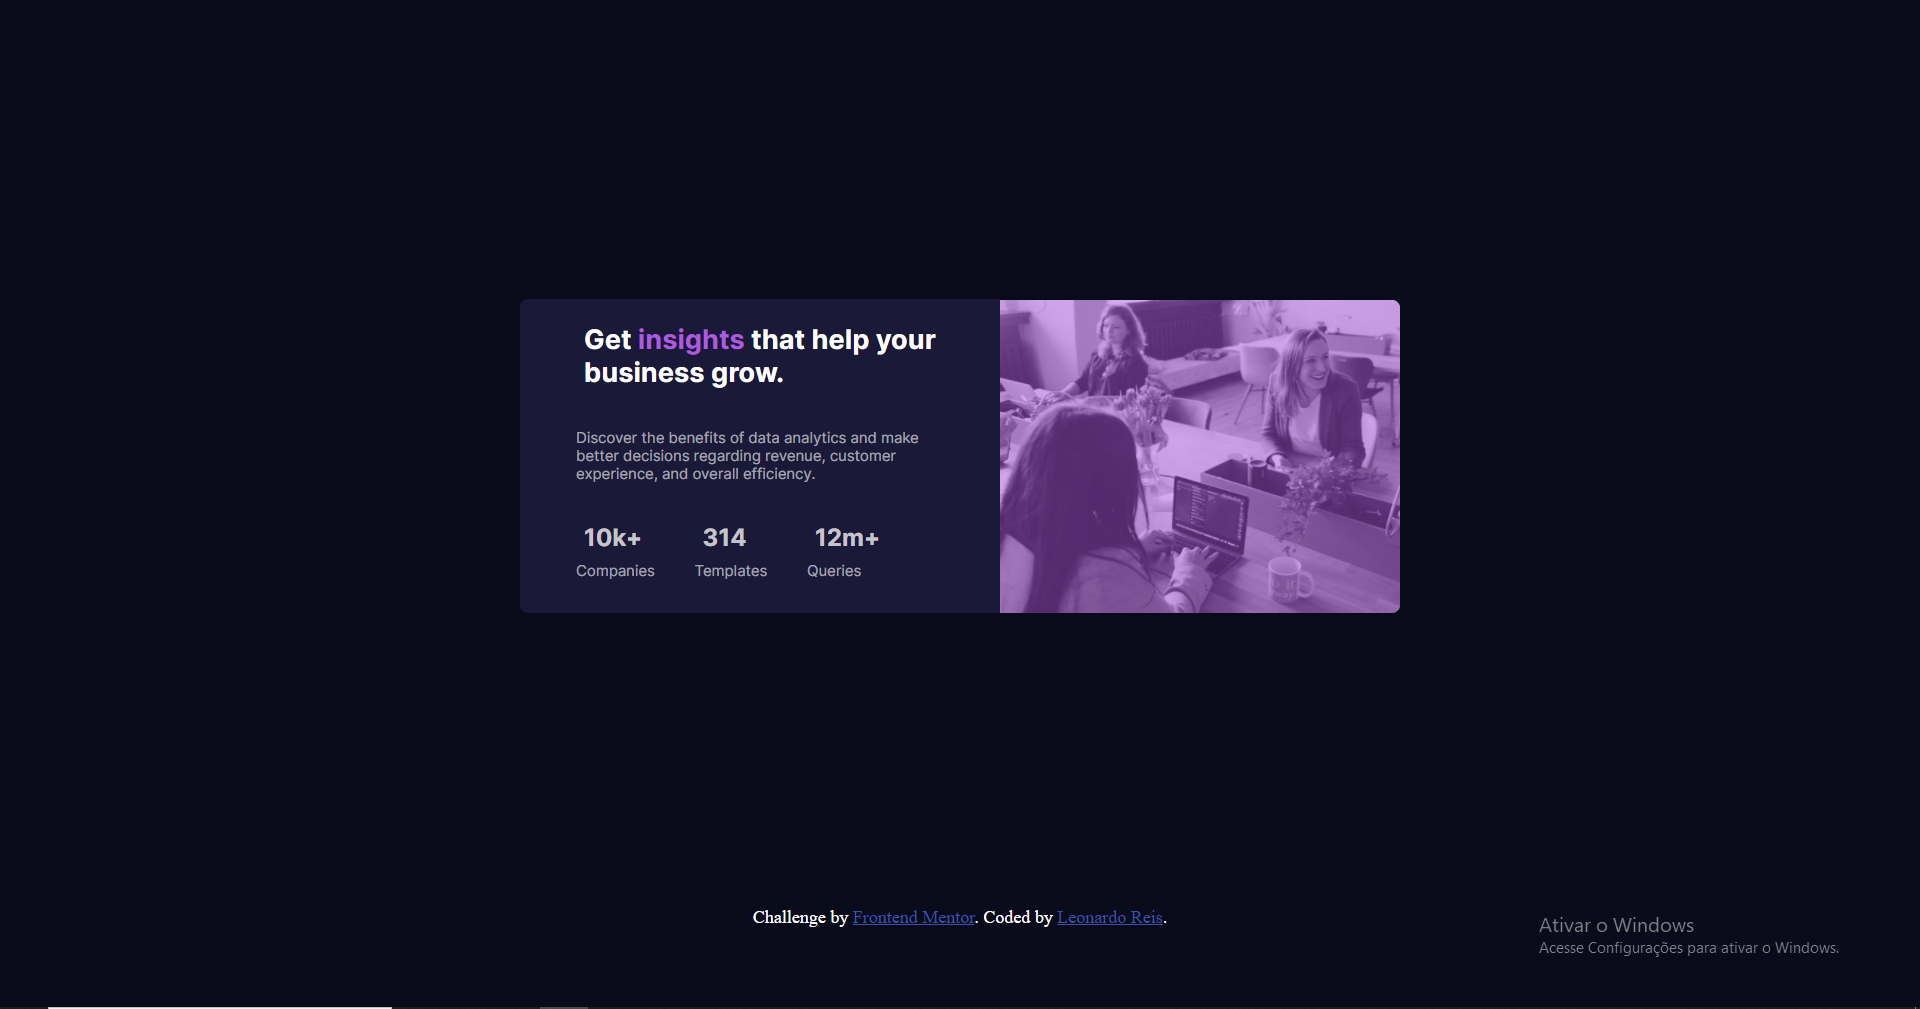
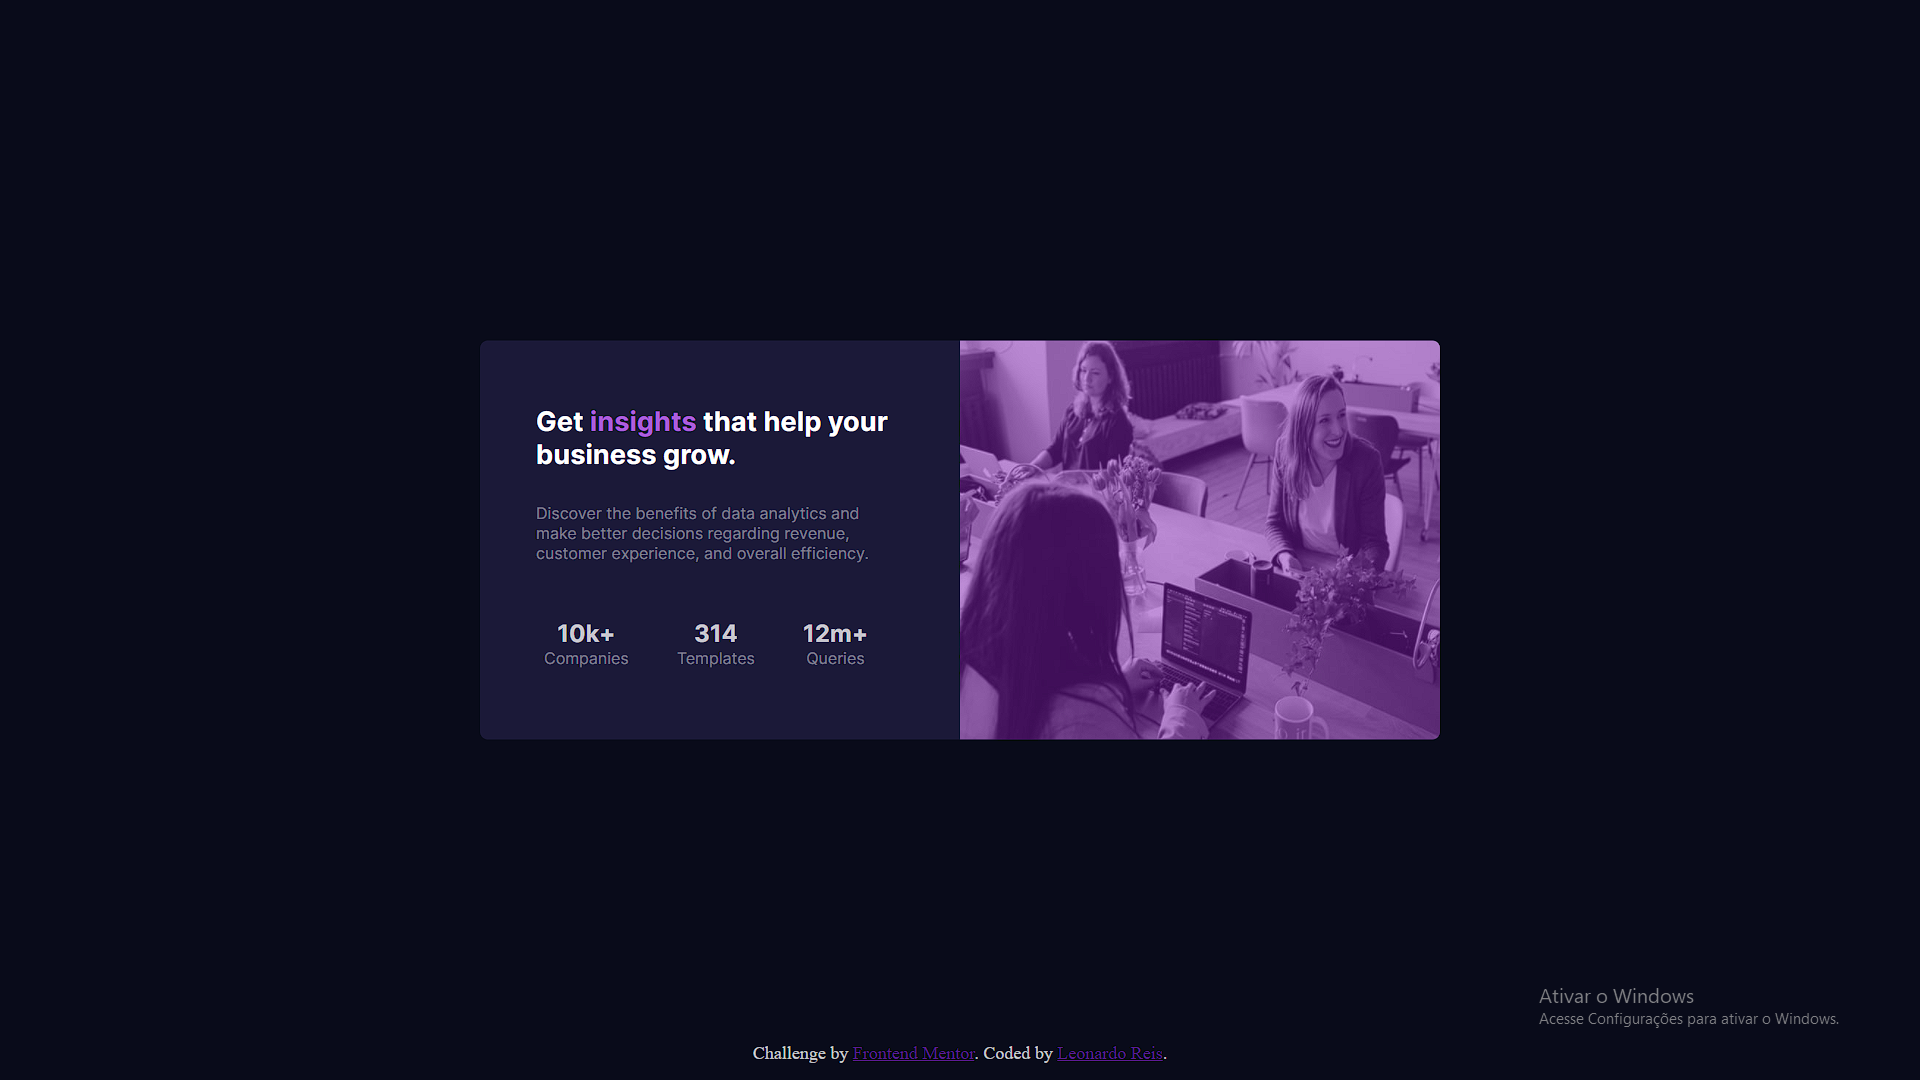
Add files via upload

diff --git a/style.css b/style.css
@@ -1,170 +1,187 @@
 :root {
   /*background colors*/
   --background-color: hsl(233, 47%, 7%);
-  --card-color: hsl(244, 38%, 16%);
+  --container-color: hsl(244, 38%, 16%);
 
   /*Font colors*/
   --h1-font-color: hsl(0, 0%, 100%);
   --h2-font-color: hsla(0, 0%, 100%, 0.75);
-  --p-second-color: hsla(0, 0%, 100%, 0.6);
+  --p-second-color: hsla(0, 0%, 100%, 0.411);
   --span-color: hsl(277, 64%, 61%);
 
-  --element-color: hsla(277, 66%, 59%, 0.493);
+  /*Sudo element color*/
+  --element-color: hsla(279, 74%, 40%, 0.493);
 }
 
 * {
   margin: 0;
   padding: 0;
+  box-sizing: border-box;
 }
 
 ul {
   list-style: none;
 }
 
-.image-mobile .mobile {
-  display: inline;
-  border-radius: 0.5rem 0.5rem 0 0;
-  width: 320px;
-  height: 200px;
-}
-
-#home .image-mobile::before {
-  content: "";
-  width: 320px;
-  height: 200px;
-  border-radius: 0.5rem 0.5rem 0 0;
-  background: var(--element-color);
-  position: absolute;
-}
-
-.image-desktop .desktop {
-  visibility: hidden;
-  width: 0;
-  height: 0;
-}
-
 body {
-  margin: 5rem auto;
   background: var(--background-color);
-  text-align: center;
-}
-
-main {
-  transition: 1s;
-  display: flex;
-  flex-direction: column;
-  align-items: center;
-  justify-content: center;
-
-  position: relative;
 }
 
 .container {
-  transition: 0.1s;
-  margin-top: -0.3rem;
-  border-radius: 0 0 0.5rem 0.5rem;
-  width: 320px;
-  background: var(--card-color);
+  margin: 5rem 2rem;
+  background: var(--container-color);
+  border-radius: 0.5rem;
 }
 
-.box-1 h1 {
-  margin: 1.5rem;
-  font: 700 1.7rem "Inter", sans-serif;
+.image {
+  display: flex;
+  width: 100%;
+  min-height: 100%;
+  position: relative;
+}
+
+.image .mobile {
+  border-radius: 0.5rem 0.5rem 0 0;
+  width: 100%;
+  min-height: 100%;
+}
+
+.image::before {
+  content: "";
+  position: absolute;
+  border-radius: 0.5rem 0.5rem 0 0;
+  width: 100%;
+  height: 100%;
+  background-color: var(--element-color);
+}
+
+.content {
+  padding: 2rem 1.5rem;
+  text-align: center;
+}
+
+.content p {
+  font: 400 1rem "inter", sans-serif;
+  color: var(--p-second-color);
+}
+
+.content-1 h1 {
+  margin: 1rem;
+  font: 700 1.7rem "inter", sans-serif;
   color: var(--h1-font-color);
 }
 
-.box-1 h1 span {
+.content-1 h1 span {
   color: var(--span-color);
 }
 
-.box-1 p {
-  padding: 1rem;
-  font: 400 0.93rem "Inter", sans-serif;
-  color: var(--p-second-color);
+.content-1 p {
+  margin: 2rem;
 }
 
-.box-2 {
-  font: 700 1rem "Inter", sans-serif;
+.content-2 {
+  margin-top: 3rem;
+}
+
+.cont {
+  margin: 1.5rem;
+}
+
+.content-2 h2 {
+  font: 700 1.5rem "inter", sans-serif;
   color: var(--h2-font-color);
 }
 
-.box-2 p {
-  padding: 0.5rem;
-  margin-bottom: 2rem;
-  font: 400 0.93rem "Inter", sans-serif;
-  color: var(--p-second-color);
+.content-2 p {
+  margin-top: 0.3rem;
+  text-transform: uppercase;
 }
 
-/*footer*/
+/*FOOTER*/
+
 .attribution {
-  font-size: 18px;
   text-align: center;
-  width: 100%;
-  height: 100px;
-  color: var(--h1-font-color);
-  bottom: 0;
-  position: absolute;
-}
-.attribution a {
-  color: hsl(228, 45%, 44%);
+  font-size: 18px;
+  color: var(--h2-font-color);
+  margin-bottom: 1rem;
 }
 
-@media (min-width: 1440px) {
-  main {
-    transition: 1s;
-    margin-top: 300px;
+/** Medium Device**/
+@media (min-width: 500px) {
+  .container {
+    margin: 6.25rem 6.25rem;
+  }
+}
+
+@media (min-width: 800px) {
+  .container {
+    margin: 6.25rem 6.25rem;
+  }
+}
+/* large device*/
+@media (min-width: 900px) {
+  .container {
+    margin: 0;
     display: flex;
     flex-direction: row;
-    align-items: center;
-    justify-content: center;
-  }
-
-  .container {
-    transition: 0.5s;
-    text-align: left;
-    padding: 0 2.5rem;
-    width: 400px;
-
-    border-radius: 0.5rem 0 0 0.5rem;
-  }
-
-  .image-mobile .mobile {
-    visibility: hidden;
-    width: 0;
-    height: 0;
-  }
-
-  .image-desktop {
-    order: 1;
-  }
-  .image-desktop .desktop {
-    visibility: visible;
-    width: 400px;
-    height: 313px;
-    border-radius: 0 0.5rem 0.5rem 0;
-  }
-
-  #home .image-desktop::before {
-    content: "";
-    width: 400px;
-    height: 313px;
-    border-radius: 0 0.5rem 0.5rem 0;
-    background: var(--element-color);
+    min-width: 90%;
     position: absolute;
+    top: 50%;
+    left: 50%;
+    transform: translate(-50%, -50%);
   }
 
-  #home .image-mobile::before {
-    visibility: hidden;
+  .image {
+    order: 1;
+    min-width: 50%;
+    min-height: 100%;
   }
 
-  .box-2 {
-    display: grid;
-    grid-auto-flow: column;
+  .image .mobile {
+    border-radius: 0 0.5rem 0.5rem 0;
+  }
+
+  .image::before {
+    border-radius: 0 0.5rem 0.5rem 0;
+  }
+
+  .content {
+    min-width: 50%;
+  }
+  .content .content-1 {
     text-align: left;
-    margin: 1.5rem 1.5rem;
+  }
+  .content-1 h1 {
+    margin: 2rem;
+  }
+  .content .content-2 {
+    margin: 1rem;
+    display: flex;
+    justify-content: right;
   }
 
-  .box-2 p {
-    margin: 0.1rem -1rem;
+  .content .content-2 h2 {
+    text-align: left;
+  }
+
+  .attribution {
+    position: absolute;
+    bottom: 0;
+    left: 50%;
+    transform: translateX(-50%);
+  }
+}
+
+/*extra large device*/
+@media (min-width: 1000px) {
+  .container {
+    margin: 0;
+    display: flex;
+    flex-direction: row;
+    min-width: 900px;
+    position: absolute;
+    top: 50%;
+    left: 50%;
+    transform: translate(-50%, -50%);
   }
 }

diff --git a/index.html b/index.html
@@ -23,38 +23,39 @@
 
 <body>
   <main id="home">
-    <div class="image-desktop">
-      <img class="desktop" src="images/image-header-desktop.jpg" alt="photo desktop">
-    </div>
-    <div class="image-mobile">
-      <img class="mobile" src="images/image-header-mobile.jpg" alt="photo mobile">
-    </div>
     <div class="container">
-      <div class="box-1">
-        <h1>Get <span>insights</span> that help your business grow.</h1>
+      <div class="image">
 
-        <p>
-          Discover the benefits of data analytics and make better decisions regarding revenue, customer
-          experience, and overall efficiency.
-        </p>
+        <img class="mobile" src="images/image-header-mobile.jpg" alt="">
       </div>
-      <ul class="box-2">
-        <li class="comp">
-          <h2>10k+</h2>
-          <p>Companies</p>
+      <div class="content">
+        <div class="content-1">
+          <h1>Get <span>insights</span> that help your business grow.</h1>
 
-        </li>
-        <li class="temp">
-          <h2>314</h2>
-          <p>Templates</p>
+          <p>
+            Discover the benefits of data analytics and make better decisions regarding revenue, customer
+            experience, and overall efficiency.
+          </p>
+        </div>
+        <ul class="content-2">
+          <li class="cont comp">
+            <h2>10k+</h2>
+            <p>Companies</p>
 
-        </li>
-        <li class="que">
-          <h2>12m+</h2>
-          <p>Queries</p>
+          </li>
+          <li class="cont temp">
+            <h2>314</h2>
+            <p>Templates</p>
 
-        </li>
-      </ul>
+          </li>
+          <li class="cont que">
+            <h2>12m+</h2>
+            <p>Queries</p>
+
+          </li>
+        </ul>
+      </div>
+
     </div>
   </main>
 
